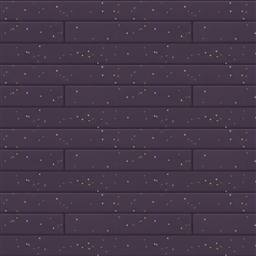
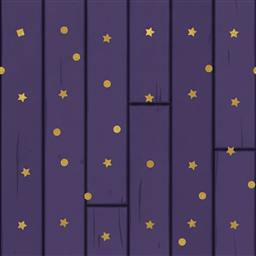
Polish des plateaux : ambiance et ciel par carte, ocean anime, cascades voxel, grande roue, orbites, lagon, rayon d'etoile ; file d'attente des popups (plus d'evenements coupes) ; equilibrage final des personnages

diff --git a/js/plateau3d.js b/js/plateau3d.js
@@ -30,6 +30,13 @@ const SOCLE={
   spirale: {a:0x201847,b:0x281E54,glow:0xC96BB8,glowC:0xF09BD8},
   archipel:{a:0x232045,b:0x2A2650,glow:0x18B89A,glowC:0x3EE6C1}
 };
+/* ambiance complète par carte : ciel, brume, lumières, océan sous l'île */
+const AMBIANCE={
+  volcan:  {sky:0x190F28,sun:0xFFC9A0,amb:0x8A6A90,sea:0x3A1006,seaGlow:0xFF5A18},
+  fete:    {sky:0x171030,sun:0xFFE2C4,amb:0x8A78C8,sea:0x1E1442,seaGlow:0xFFD644},
+  spirale: {sky:0x120C2C,sun:0xEDC6FF,amb:0x7A68B8,sea:0x160F3C,seaGlow:0xC96BB8},
+  archipel:{sky:0x0E1A32,sun:0xCFE6FF,amb:0x5C7AAA,sea:0x0A3448,seaGlow:0x3EE6C1}
+};
 
 const B3D={ready:false,ok:false,built:'',pions:{},focusId:null};
 window.B3D=B3D;
@@ -40,7 +47,7 @@ const VOXTEX={};
   new THREE.TextureLoader().load('/art/voxtex-'+k+'.jpg',t=>{
     t.wrapS=t.wrapT=THREE.RepeatWrapping;
     t.colorSpace=THREE.SRGBColorSpace;
-    t.repeat.set(.5,.5); // motif zoomé : lisible à l'échelle d'un bloc
+    t.repeat.set(.34,.34); // motif très zoomé : chaque bloc montre un GROS détail lisible
     VOXTEX[k]=t;
     B3D.built=''; // reconstruire avec la matière dès qu'elle arrive
     try{ if(window.room&&room.status==='board'&&typeof render==='function') render(); }catch(e){}
@@ -185,8 +192,15 @@ function clearGroup(g){
 function build(){
   const nodes=room.board;
   clearGroup(gStatic); rims=[]; bobs=[]; spinners=[]; puffs=[];
+  B3D.falls=[]; B3D.orbites=null; B3D.roue=null; B3D.starRay=null;
   gStatic=new THREE.Group();
   const pal=SOCLE[room.mapId]||SOCLE.fete;
+  // ambiance du thème : ciel, brume, teinte des lumières
+  const amb2=AMBIANCE[room.mapId]||AMBIANCE.fete;
+  scene.background=new THREE.Color(amb2.sky);
+  scene.fog=new THREE.Fog(amb2.sky,80,190);
+  sun.color.setHex(amb2.sun);
+  amb.color.setHex(amb2.amb);
   // emprise de la carte → centre caméra + cadrage
   let minX=1e9,maxX=-1e9,minZ=1e9,maxZ=-1e9;
   nodes.forEach(n=>{ const p=toW(n); minX=Math.min(minX,p.x); maxX=Math.max(maxX,p.x); minZ=Math.min(minZ,p.z); maxZ=Math.max(maxZ,p.z); });
@@ -273,6 +287,12 @@ function build(){
       const halo=new THREE.PointLight(0xFFD644,24,9);
       halo.position.set(p.x,p.y+2.2,p.z);
       gStatic.add(halo);
+      // colonne de lumière au-dessus de l'étoile (visible de loin, tourne doucement)
+      const ray=new THREE.Mesh(new THREE.ConeGeometry(1.5,7,6,1,true),
+        new THREE.MeshBasicMaterial({color:0xFFD644,transparent:true,opacity:.16,side:THREE.DoubleSide,depthWrite:false}));
+      ray.position.set(p.x,p.y+4.1,p.z);
+      B3D.starRay=ray;
+      gStatic.add(ray);
     }
     // pastille de carrefour
     if(n.next.length>1){
@@ -297,6 +317,28 @@ function build(){
       gStatic.add(m);
     }
   }));
+  // ----- océan animé sous l'île (lave / nuit de fête / nébuleuse / lagon) -----
+  const sea=new THREE.Mesh(new THREE.PlaneGeometry(340,340),
+    new THREE.MeshStandardMaterial({color:amb2.sea,emissive:amb2.seaGlow,emissiveIntensity:.14,roughness:.85}));
+  sea.rotation.x=-Math.PI/2;
+  sea.position.set(CENTER.x,-7.2,CENTER.z);
+  B3D.seaMat=sea.material;
+  gStatic.add(sea);
+  // ----- cascades voxel sur le bord de l'île (flux qui tombe en boucle) -----
+  const fallM=new THREE.MeshStandardMaterial({color:pal.glowC,emissive:pal.glow,emissiveIntensity:1.1,transparent:true,opacity:.85});
+  const fallG=new THREE.BoxGeometry(.6,1.4,.6);
+  for(let i=0;i<7;i++){
+    const ang=(i/7)*Math.PI*2+.4;
+    const fx=CENTER.x+Math.cos(ang)*((maxX-minX)/2+4.4);
+    const fz=CENTER.z+Math.sin(ang)*((maxZ-minZ)/2+4.4);
+    for(let s2=0;s2<3;s2++){
+      const cube=new THREE.Mesh(fallG,fallM);
+      cube.position.set(fx,-1-s2*2,fz);
+      cube.userData={y0:-1,ph:i*.9+s2*2.1};
+      B3D.falls.push(cube);
+      gStatic.add(cube);
+    }
+  }
   // ----- props emblématiques par carte (primitives low-poly à l'échelle) -----
   buildProps(gStatic,room.mapId,pal);
   // ----- braises / particules d'ambiance -----
@@ -343,6 +385,14 @@ function buildProps(g,mapId,pal){
       puff.userData.o=i*1.4;
       g.add(puff); puffs.push(puff);
     }
+    // pics de basalte fumants autour de la caldera
+    const rockM2=new THREE.MeshStandardMaterial({color:0x2E2248,roughness:1,flatShading:true});
+    [[-7,-4],[7.5,-6],[-8,4],[8,6],[0,12]].forEach(([ox,oz],i)=>{
+      const pic=new THREE.Mesh(new THREE.ConeGeometry(.9+(i%2)*.4,2.4+(i%3),5),rockM2);
+      pic.position.set(p.x+ox,1.1,p.z+oz);
+      pic.castShadow=true;
+      g.add(pic);
+    });
   } else if(mapId==='fete'){
     const p=toW({x:210,y:90,h:0});
     const tent=new THREE.Group();
@@ -358,6 +408,34 @@ function buildProps(g,mapId,pal){
     tent.position.set(p.x,0,p.z);
     tent.children.forEach(m=>m.castShadow=true);
     g.add(tent);
+    // GRANDE ROUE qui tourne, cabines colorées
+    const roue=new THREE.Group();
+    const ring=new THREE.Mesh(new THREE.TorusGeometry(3,.22,7,18),
+      new THREE.MeshStandardMaterial({color:0xE8C05A,emissive:0x6a4a10,roughness:.6,flatShading:true}));
+    roue.add(ring);
+    const cabCols=[0xFF5FA2,0x3EE6C1,0x5AC8FA,0xFFD644,0xFF9F45,0xC39BFF];
+    for(let i=0;i<6;i++){
+      const cab=new THREE.Mesh(new THREE.BoxGeometry(.8,.8,.8),
+        new THREE.MeshStandardMaterial({color:cabCols[i],roughness:.7,flatShading:true}));
+      const ang=i/6*Math.PI*2;
+      cab.position.set(Math.cos(ang)*3,Math.sin(ang)*3,0);
+      cab.userData.spoke=ang;
+      roue.add(cab);
+      const spoke=new THREE.Mesh(new THREE.CylinderGeometry(.06,.06,3,4),
+        new THREE.MeshStandardMaterial({color:0xB8933A,flatShading:true}));
+      spoke.position.set(Math.cos(ang)*1.5,Math.sin(ang)*1.5,0);
+      spoke.rotation.z=ang+Math.PI/2;
+      roue.add(spoke);
+    }
+    const pied=new THREE.Mesh(new THREE.CylinderGeometry(.16,.3,4,5),dark);
+    pied.position.y=-2;
+    roue.add(pied);
+    const pr=toW({x:355,y:120,h:0});
+    roue.position.set(pr.x,4.6,pr.z);
+    roue.rotation.y=.6;
+    roue.children.forEach(m=>m.castShadow=true);
+    B3D.roue=roue;
+    g.add(roue);
   } else if(mapId==='spirale'){
     const p=toW({x:215,y:470,h:3});
     const vor=new THREE.Mesh(new THREE.TorusGeometry(2.1,.5,7,16),
@@ -366,6 +444,21 @@ function buildProps(g,mapId,pal){
     vor.position.set(p.x,p.y+2.6,p.z);
     B3D.vortex=vor;
     g.add(vor);
+    // anneaux orbitaux + petites planètes qui tournent AUTOUR de l'île (au-delà du bord)
+    const orb=new THREE.Group();
+    [[SPAN*.46,.9,0xF09BD8],[SPAN*.56,-.5,0x9FF7FF]].forEach(([r,tilt,col])=>{
+      const an=new THREE.Mesh(new THREE.TorusGeometry(r,.09,5,40),
+        new THREE.MeshStandardMaterial({color:col,emissive:col,emissiveIntensity:.5,transparent:true,opacity:.55}));
+      an.rotation.x=Math.PI/2+tilt*.14;
+      orb.add(an);
+      const pla=new THREE.Mesh(new THREE.SphereGeometry(.8,7,6),
+        new THREE.MeshStandardMaterial({color:col,roughness:.8,flatShading:true}));
+      pla.userData={r,tilt:tilt*.14,ph:r};
+      orb.add(pla);
+    });
+    orb.position.set(CENTER.x,2.5,CENTER.z);
+    B3D.orbites=orb;
+    g.add(orb);
   } else if(mapId==='archipel'){
     [[210,140],[120,440],[290,740]].forEach(([px,py])=>{
       const pw=toW({x:px,y:py,h:0});
@@ -385,6 +478,14 @@ function buildProps(g,mapId,pal){
       palm.position.set(pw.x+2.6,0,pw.z-1.2);
       g.add(palm);
     });
+    // rochers du lagon qui émergent de l'eau autour de l'île
+    const wet=new THREE.MeshStandardMaterial({color:0x1E3A50,roughness:.85,flatShading:true});
+    for(let i=0;i<6;i++){
+      const ang=i/6*Math.PI*2+.8;
+      const rk=new THREE.Mesh(new THREE.DodecahedronGeometry(.9+(i%3)*.5),wet);
+      rk.position.set(CENTER.x+Math.cos(ang)*21,-6.4,CENTER.z+Math.sin(ang)*26);
+      g.add(rk);
+    }
   }
 }
 
@@ -420,7 +521,10 @@ function ensurePion(p){
     // Les modèles statiques Meshy sont livrés en t-pose : la boîte inclut les
     // bras écartés et du vide → le corps réel est plus petit que la boîte.
     // On les grossit donc pour qu'ils aient la même présence que Cosmo.
-    const s=skinned ? (HERO_H*1.75)/Math.max(.0001,size.y)
+    // Cosmo (riggé) a une boîte FIDÈLE à son corps → petit facteur ;
+    // les statiques ont une boîte t-pose gonflée de vide → gros facteur.
+    // Résultat : même présence à l'écran pour tout le monde.
+    const s=skinned ? (HERO_H*1.15)/Math.max(.0001,size.y)
                     : (HERO_H*2.2)/Math.max(.0001,size.y);
     m.scale.setScalar(s);
     bb.setFromObject(m);
@@ -460,6 +564,23 @@ function loop(){
   if(B3D.crater) B3D.crater.material.emissiveIntensity=1.6+Math.sin(t*.004)*.5;
   if(B3D.vortex) B3D.vortex.rotation.z=t*.0011;
   if(B3D.mGlow) B3D.mGlow.emissiveIntensity=1.1+Math.sin(t*.003)*.45;
+  // la vie du décor : cascades qui coulent, grande roue, orbites, océan, rayon d'étoile
+  if(B3D.falls) B3D.falls.forEach(c=>{ c.position.y=c.userData.y0-((t*.004+c.userData.ph)%6.2); });
+  if(B3D.roue){
+    B3D.roue.rotation.z=t*.00035;
+    B3D.roue.children.forEach(ch=>{ if(ch.userData.spoke!==undefined) ch.rotation.z=-B3D.roue.rotation.z; });
+  }
+  if(B3D.orbites){
+    B3D.orbites.rotation.y=t*.00016;
+    B3D.orbites.children.forEach(ch=>{
+      if(ch.userData.r){
+        const a2=t*.0004+ch.userData.ph;
+        ch.position.set(Math.cos(a2)*ch.userData.r,Math.sin(a2)*ch.userData.r*Math.sin(ch.userData.tilt),Math.sin(a2)*ch.userData.r);
+      }
+    });
+  }
+  if(B3D.seaMat) B3D.seaMat.emissiveIntensity=.12+Math.sin(t*.0016)*.06;
+  if(B3D.starRay){ B3D.starRay.rotation.y=t*.0012; B3D.starRay.material.opacity=.13+Math.sin(t*.0035)*.05; }
   puffs.forEach(p2=>{
     p2.position.y=6.5+p2.userData.o+((t*.0011+p2.userData.o)%3.2);
     p2.material.opacity=.55-((p2.position.y-6.5)/3.2)*.4;

diff --git a/js/etat.js b/js/etat.js
@@ -365,7 +365,28 @@ const EVART_OK={};
   im.onload=()=>{ EVART_OK[k]=1; };
   im.src='/art/evart-'+k+'.jpg';
 });
+/* file d'attente des popups : chaque événement joue son temps PLEIN puis laisse
+   respirer avant le suivant — plus jamais un jackpot coupé par le « tour suivant » */
+let fxQueue=[], fxUntil=0, fxTimer=null;
 function fxShow(f){
+  fxQueue.push(f);
+  if(fxQueue.length>4) fxQueue.shift(); // on ne laisse pas 20 s de retard s'accumuler
+  pumpFx();
+}
+function pumpFx(){
+  if(fxTimer) return;
+  const now=Date.now();
+  if(now<fxUntil){
+    fxTimer=setTimeout(()=>{ fxTimer=null; pumpFx(); }, fxUntil-now+30);
+    return;
+  }
+  const f=fxQueue.shift();
+  if(!f) return;
+  fxUntil=now+(f.ms||2200)+260; // 260 ms de respiration entre deux popups
+  fxShowNow(f);
+  if(fxQueue.length) pumpFx();
+}
+function fxShowNow(f){
   snd('pop');
   if(f.icon&&['👹','💥','😵','💀','🌪','☄'].indexOf(f.icon)>=0){
     document.body.classList.add('shake');
